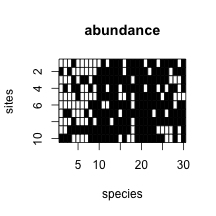
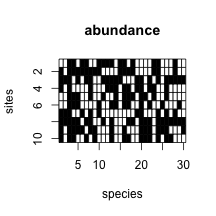
more cleaning

Changed region(s): [[0.25, 0.25, 0.8611, 0.6667]]

diff --git a/README.md b/README.md
@@ -97,6 +97,10 @@ form <- y ~ x*z + (x | species)
 parsedForm <- levelsCovFormula(form, df, covList = covList)
 ```
 
+```
+## Error in eval(expr, envir, enclos): could not find function "levelsCovFormula"
+```
+
 Set the covariance parameters to something more interesting (i.e. with
 a covariance between the slope and intercept).
 
@@ -104,18 +108,50 @@ a covariance between the slope and intercept).
 covarSim <- c(0.5, -0.2, 0.5)
 parsedForm <- within(parsedForm, Lambdat@x[] <- mapToCovFact(covarSim))
 ```
+
+```
+## Error in within(parsedForm, Lambdat@x[] <- mapToCovFact(covarSim)): object 'parsedForm' not found
+```
 Update the simulations to reflect the new structure.
 
 ```r
 X <- model.matrix(nobars(form), df) # fixed effects design matrix
 Z <- t(parsedForm$Lambdat %*% parsedForm$Zt) # random effects design
+```
+
+```
+## Error in t(parsedForm$Lambdat %*% parsedForm$Zt): error in evaluating the argument 'x' in selecting a method for function 't': Error: object 'parsedForm' not found
+```
+
+```r
                                              # matrix with
                                              # phylogenetic
                                              # covariances
 fixefSim <- rnorm(ncol(X)) # fixed effects
 u <- rnorm(ncol(Z)) # whitened random effects
+```
+
+```
+## Error in ncol(Z): object 'Z' not found
+```
+
+```r
 p <- plogis(as.numeric(X %*% fixefSim + Z %*% u)) # probability of observation
+```
+
+```
+## Error in plogis(as.numeric(X %*% fixefSim + Z %*% u)): object 'Z' not found
+```
+
+```r
 dl$y <- rbinom(nrow(df), 1, p) # presence-absence data
+```
+
+```
+## Error in rbinom(nrow(df), 1, p): object 'p' not found
+```
+
+```r
 df <- as.data.frame(dl) # reconstruct the data frame with new
                         # structured response
 ```
@@ -125,13 +161,18 @@ Now we look at the new structure.  Here's the Cholesky factor of the species cov
 image(parsedForm$Lambdat)
 ```
 
-![plot of chunk unnamed-chunk-11](inst/README/figure/unnamed-chunk-11-1.png) 
+```
+## Error in image(parsedForm$Lambdat): error in evaluating the argument 'x' in selecting a method for function 'image': Error: object 'parsedForm' not found
+```
 
 ```r
 image(crossprod(parsedForm$Lambdat))
 ```
 
-![plot of chunk unnamed-chunk-11](inst/README/figure/unnamed-chunk-11-2.png) 
+```
+## Error in image(crossprod(parsedForm$Lambdat)): error in evaluating the argument 'x' in selecting a method for function 'image': Error in crossprod(parsedForm$Lambdat) : 
+##   error in evaluating the argument 'x' in selecting a method for function 'crossprod': Error: object 'parsedForm' not found
+```
 The big four blocks represent the 2-by-2 covariance between intercept
 and slope.  The covariances within these blocks represent phylogenetic
 covariance.  the pattern here is more closely related species have
@@ -147,7 +188,9 @@ the second 30.
 image(parsedForm$Zt)
 ```
 
-![plot of chunk unnamed-chunk-12](inst/README/figure/unnamed-chunk-12-1.png) 
+```
+## Error in image(parsedForm$Zt): error in evaluating the argument 'x' in selecting a method for function 'image': Error: object 'parsedForm' not found
+```
 
 Here's the full covariance matrix (the large scale blocks reflect
 phylogenetic correlations and the patterns within each block are due
@@ -157,14 +200,19 @@ to the environmental variable).
 image(fullCov <- t(parsedForm$Zt) %*% crossprod(parsedForm$Lambdat) %*% parsedForm$Zt)
 ```
 
-![plot of chunk unnamed-chunk-13](inst/README/figure/unnamed-chunk-13-1.png) 
+```
+## Error in image(fullCov <- t(parsedForm$Zt) %*% crossprod(parsedForm$Lambdat) %*% : error in evaluating the argument 'x' in selecting a method for function 'image': Error in t(parsedForm$Zt) : 
+##   error in evaluating the argument 'x' in selecting a method for function 't': Error: object 'parsedForm' not found
+```
 Here's a closeup of one of the blocks
 
 ```r
 image(fullCov[1:10, 1:10])
 ```
 
-![plot of chunk unnamed-chunk-14](inst/README/figure/unnamed-chunk-14-1.png) 
+```
+## Error in image(fullCov[1:10, 1:10]): error in evaluating the argument 'x' in selecting a method for function 'image': Error: object 'fullCov' not found
+```
 A potential problem is that this block is singular.
 
 ```r
@@ -172,8 +220,7 @@ eigen(fullCov[1:10, 1:10])$values
 ```
 
 ```
-##  [1]  6.748128e+00  3.398358e+00  1.561011e-16  1.101625e-16  6.591610e-18
-##  [6] -3.885041e-17 -8.128315e-17 -3.923051e-16 -4.882623e-16 -6.122015e-16
+## Error in as.matrix(x): object 'fullCov' not found
 ```
 In fact the rank of the full 300 by 300 matrix is only 60 = 30 species
 times 2 model matrix columns.
@@ -183,7 +230,7 @@ rankMatrix(fullCov)[1]
 ```
 
 ```
-## [1] 60
+## Error in stopifnot(length(d <- dim(x)) == 2): object 'fullCov' not found
 ```
 But then again so is the standard non-phylogenetic `glmer` model.
 
@@ -197,7 +244,7 @@ with(getME(gm, c("Zt", "Lambdat")), {
 ```
 
 ```
-## [1] 60
+## [1] 30
 ```
 
 ```
@@ -209,7 +256,9 @@ The distribution of underlying probabilities of occurrence looks OK.
 hist(p)
 ```
 
-![plot of chunk unnamed-chunk-18](inst/README/figure/unnamed-chunk-18-1.png) 
+```
+## Error in hist(p): object 'p' not found
+```
 Here is the observed occurrence pattern.
 
 ```r
@@ -226,14 +275,14 @@ mod <- glmerc(form, df, covMat = covMat)
 ```
 ## npt = 9 , n =  7 
 ## rhobeg =  0.2 , rhoend =  2e-07 
-##    0.020:  15:      343.673; 1.20159 -0.139508 0.483041 -0.933195 0.582633 0.0508191 0.549206 
-##   0.0020:  42:      333.153; 1.15618 -0.102176 0.262600 -1.03684 0.0105459 0.439994 0.863897 
-##  0.00020:  76:      333.083; 1.14676 -0.116070 0.164472 -1.00478 0.0258033 0.445324 0.839599 
-##  2.0e-05: 111:      333.083; 1.14677 -0.119141 0.156695 -1.00379 0.0278167 0.444258 0.838293 
-##  2.0e-06: 143:      333.083; 1.14698 -0.119098 0.156374 -1.00405 0.0278116 0.444394 0.838391 
-##  2.0e-07: 174:      333.083; 1.14704 -0.119139 0.156302 -1.00409 0.0278226 0.444432 0.838413 
+##    0.020:  13:      416.215;0.458710 -0.200171 0.621835 -0.104852 -0.0693831 -0.106557 0.181020 
+##   0.0020:  47:      410.103;0.511513 -0.278630 0.0763083 -0.0252949 -0.0396708 0.00903895 0.169824 
+##  0.00020:  77:      410.025;0.514705 -0.302518  0.00000 -0.000759701 -0.0461109 -0.00429556 0.179337 
+##  2.0e-05:  98:      410.024;0.512559 -0.303636  0.00000 -0.00238239 -0.0465206 -0.00378935 0.180255 
+##  2.0e-06: 111:      410.024;0.512597 -0.303755  0.00000 -0.00236715 -0.0464696 -0.00378699 0.180302 
+##  2.0e-07: 127:      410.024;0.512597 -0.303744  0.00000 -0.00236739 -0.0464717 -0.00377934 0.180295 
 ## At return
-## 194:     333.08262:  1.14705 -0.119142 0.156301 -1.00409 0.0278254 0.444433 0.838415
+## 148:     410.02430: 0.512598 -0.303743 3.56407e-07 -0.00236752 -0.0464721 -0.00377842 0.180294
 ```
 
 ```
